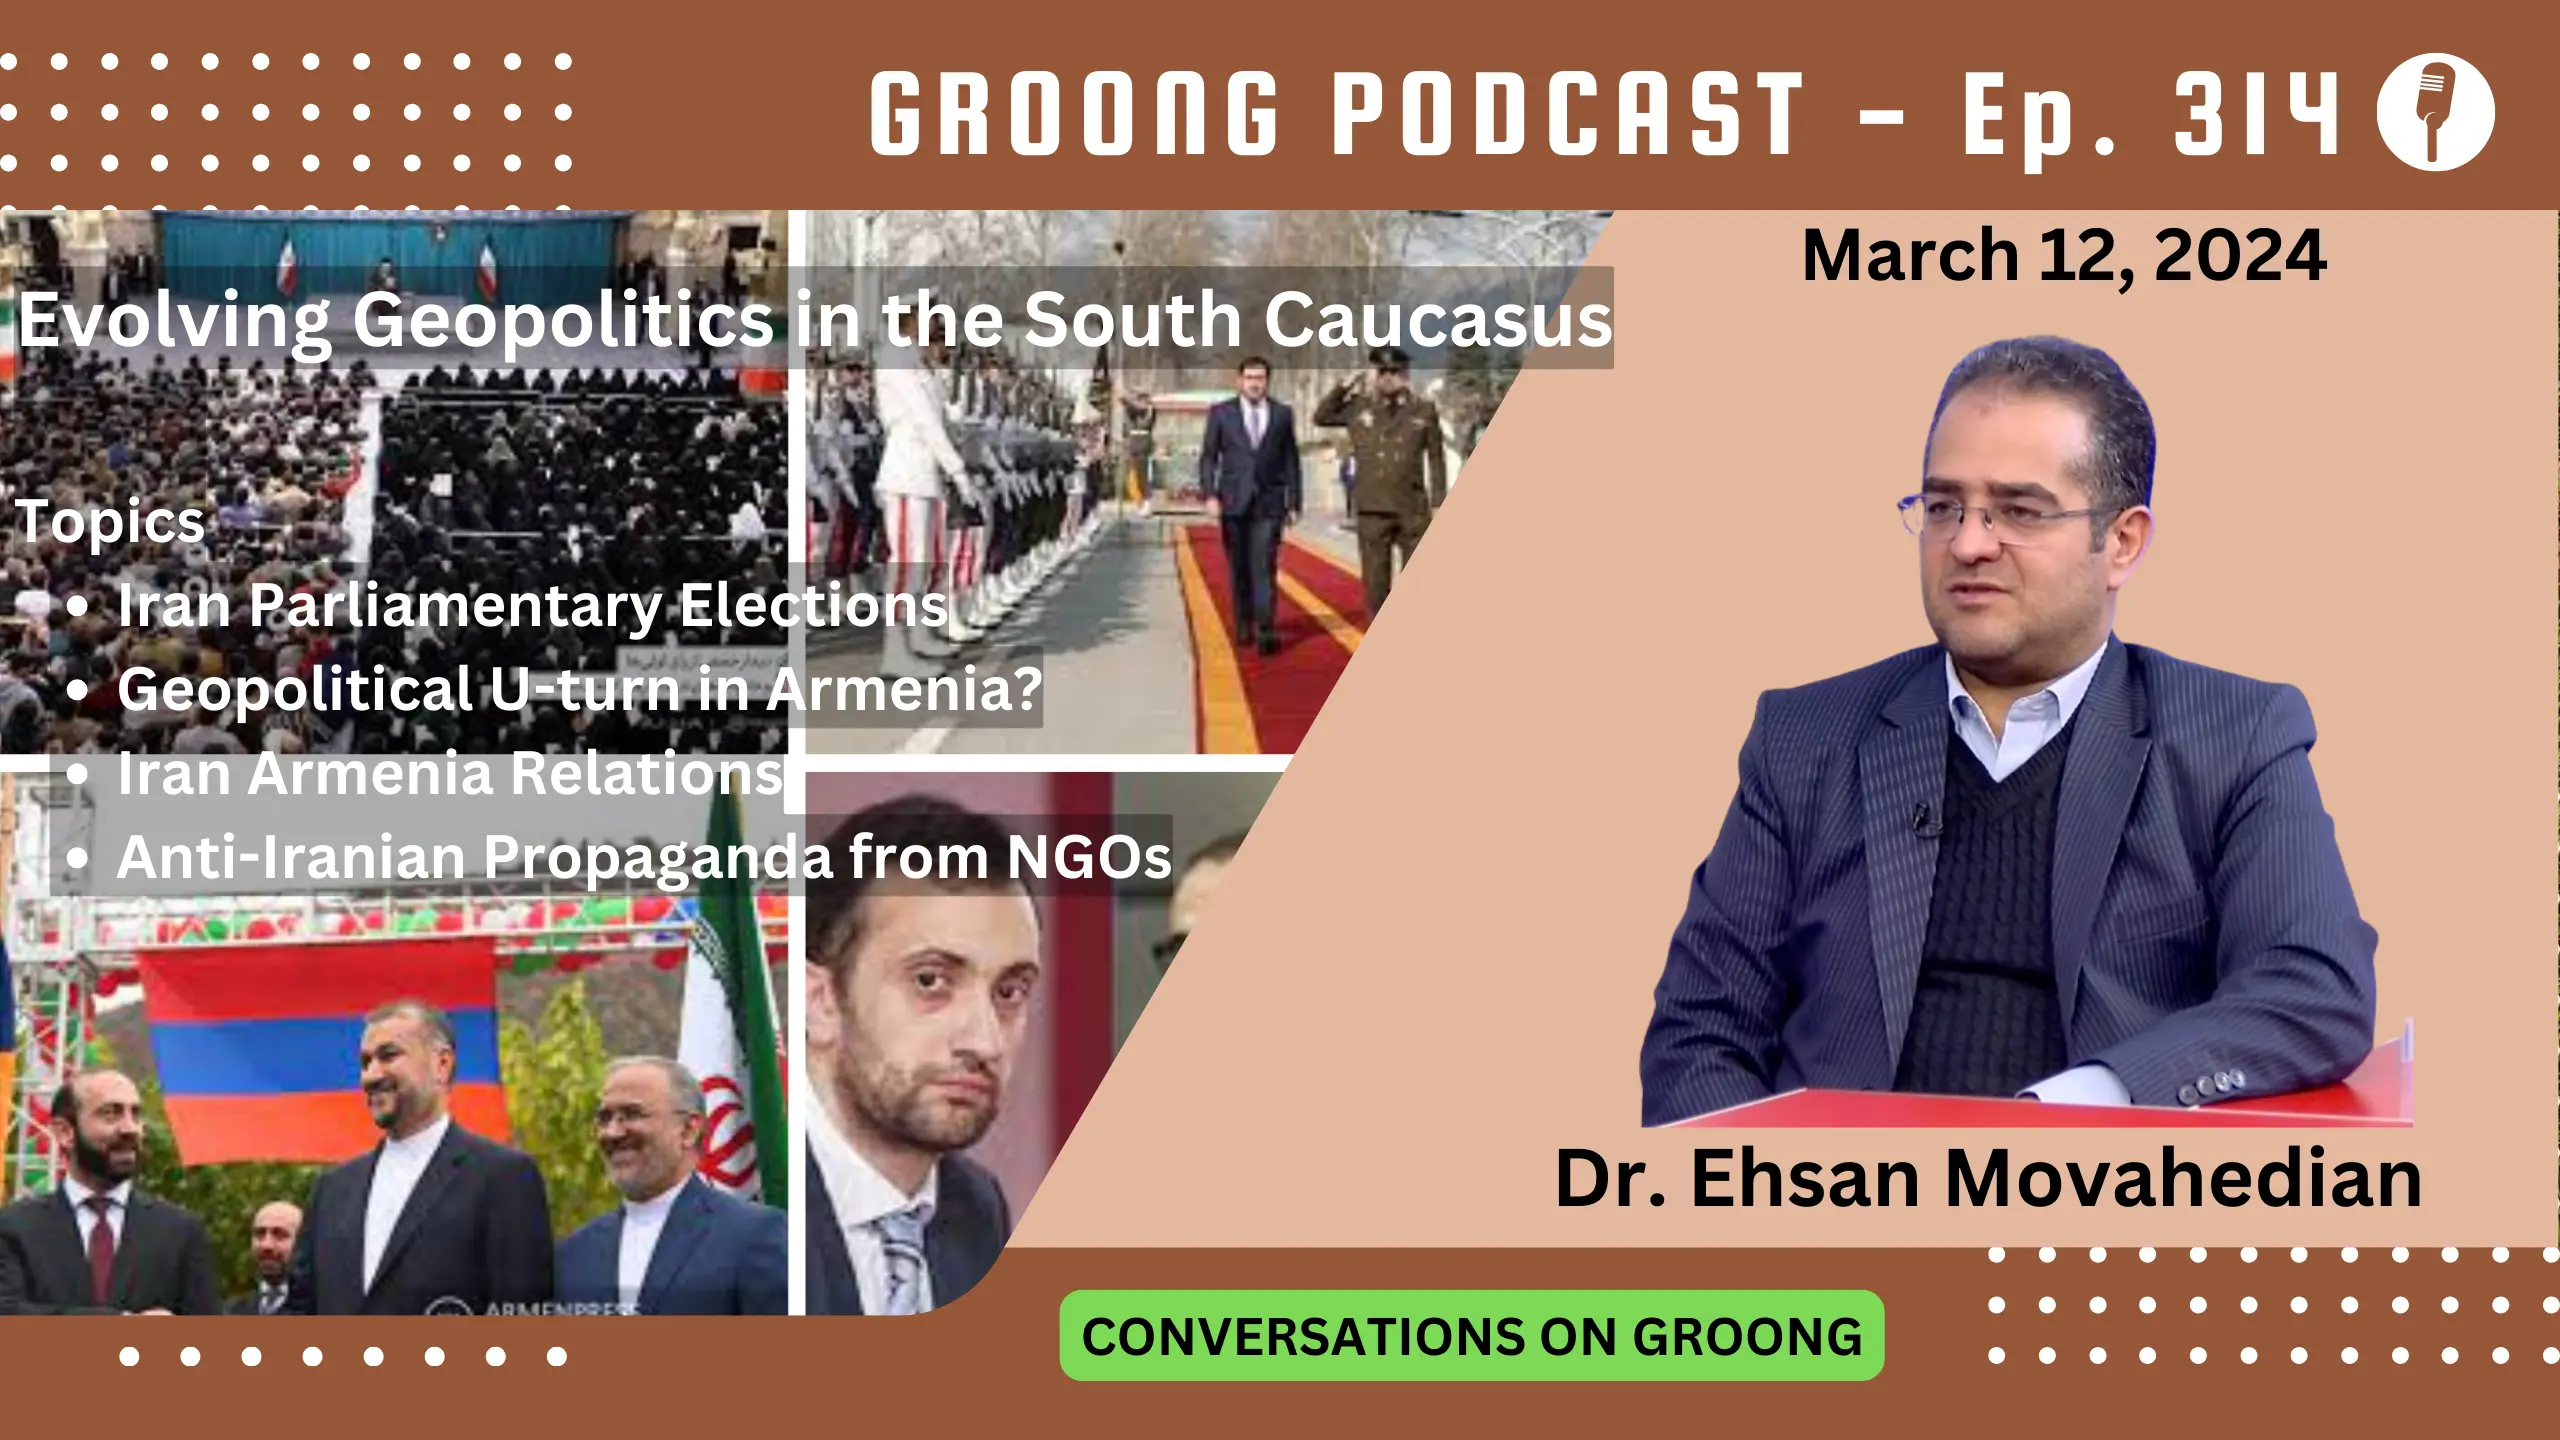
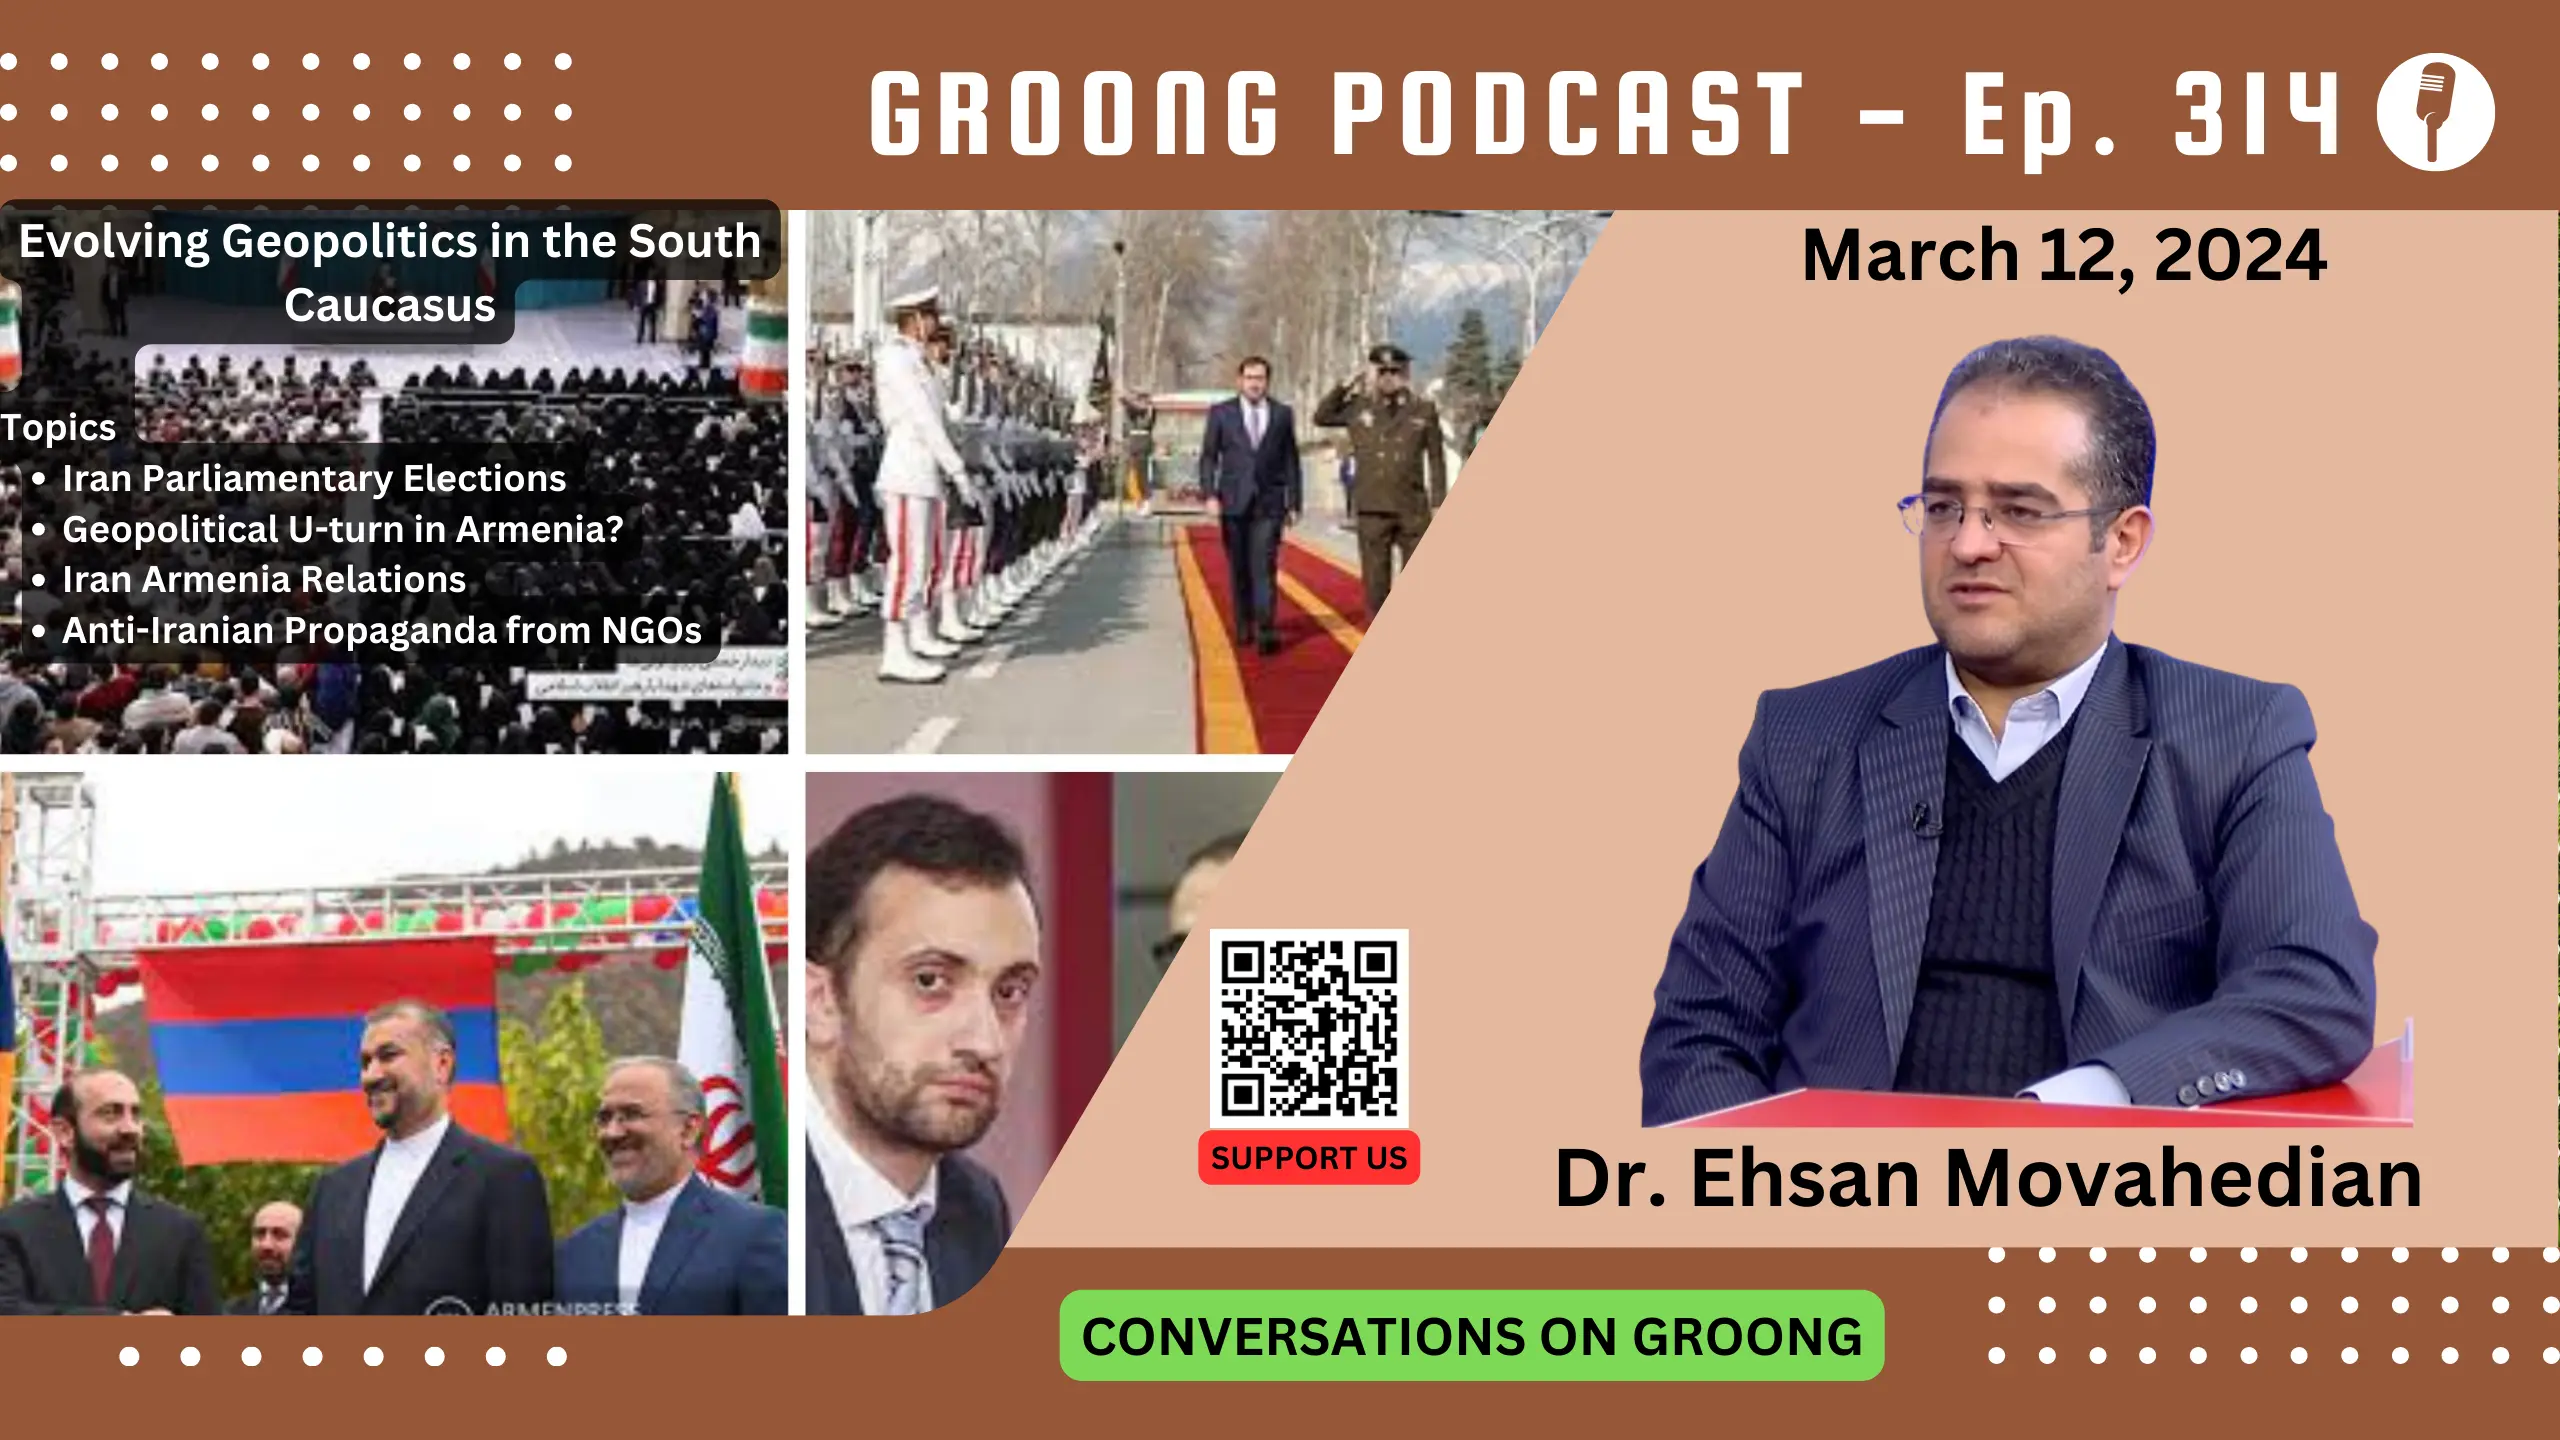
Go live EP 314 with Ehsan Movahedian

Changed region(s): [[0.0, 0.125, 0.6562, 0.625], [0.4688, 0.625, 0.5625, 0.8438]]

diff --git a/content/episode/314-ehsan-movahedian-iran-armenia-relations-security-architecture-u-turn-ngo-propaganda.md b/content/episode/314-ehsan-movahedian-iran-armenia-relations-security-architecture-u-turn-ngo-propaganda.md
@@ -1,11 +1,11 @@
 +++
 Date = 2024-03-13T01:00:00+04:00
-upcoming = true
+upcoming = false
 
-podcast_file = ""
-podcast_bytes = ""
-podcast_duration = ""
-youtube = ""
+podcast_file = "14681286-iran-s-view-of-the-evolving-geopolitics-in-the-south-caucasus.mp3"
+podcast_bytes = "28430873"
+podcast_duration = "2366"
+youtube = "jTOQZEaaxOY"
 
 episode_image = "img/episode/314/thumbnail-314.webp"
 episode_banner = "img/episode/314/banner-314.webp"
@@ -46,7 +46,83 @@ Episode 314 | Recorded: March 11, 2024
 
 +++
 
+# Evolving Geopolitics in the South Caucasus
 
+## Iran Parliamentary Elections
+
+On March 1, 2024 Iran held parliamentary elections. The turnout of these elections was 41% which, based on our understanding, indicates that many of the seats in the Majles will go to a 2nd round of voting scheduled in May. Additionally, we understand that many seats were won by conservative candidates.
+
+**Questions:**
+* What should regional, and also global, actors expect from the outcome of these elections?
+* Is it possible that the leader of Iran might change?
+* How likely are foreign policy changes based on these elections?
+
+
+## Geopolitical U-Turn in Armenia?
+
+When the 2018 regime change happened in Armenia, there were many speculations about the future geopolitical direction of the new government, specifically that Armenia was going to make a u-turn to the west.. After the 2020 war and especially after the ethnic cleansing of Artsakh in September 2023, it seems Armenia is making steadfast and accelerated steps in a direction away from its security cooperation with the CSTO and Russia, in what Pashinyan’s government calls “security diversification,” but which in reality clearly looks like a divorce.
+
+It is important to highlight that a recent MPG poll found that over 58% of Armenians do not see these moves as corresponding to Armenian security interests, and 37% agree with the government.
+
+All this is being done in the context of constant and increasingly open and aggressive threats from Azerbaijan about attacking Armenia and forcing a corridor through Syunik. In reality, they have their sights on all of Armenia through Aliyev’s “Western Azerbaijan” propaganda.
+
+Meanwhile, Russian and Iranian officials define their relations as very close. More recently the relations have been elevated to a strategic alliance since the Ukraine war, when Russia began to rely more heavily on Iran for military cooperation.
+
+**Questions**:
+* How is Iran viewing Armenia’s potential change of security architecture?
+* Given Armenia’s geographic neighborhood, is a change of security architecture a realistic goal?
+* Georgia has recently been granted candidacy for EU membership. Is Georgia’s security orientation also a concern for Iran?
+
+
+## Iran-Armenia Relations
+
+In the context of Armenia’s antagonism with Russia, the role of Iran in Armenia’s future security architecture seems at once both crucial, as well as in question. Armenian officials praise Iran’s role in the “diversification” of Armenia’s foreign policy, but at the same time it seems that the Pashinyan regime is obviously holding back from deeper cooperation. For instance, it has been reported that Armenia has refused Iranian offers to obtain military supplies.
+
+Over the past few months, Armenian and Iranian officials have been engaged in an intense series of high level meetings. In February, Deputy Prime Minister, [Mher Grigoryan was in Iran](https://iran.mfa.am/en/news/2024/02/14/armenian-deputy-prime-minister-mher-grigoryan-visited-the-islamic-republic-of-iran/12580). Last week, Armenia’s Defense Minister, Suren Papikyan, [visited](https://www.azatutyun.am/a/32850808.html) Iran. Deputy Foreign Minister [Vahan Kostanyan was also in Tehran](https://www.mfa.am/en/press-releases/2024/03/09/political_consultations_Arm_Iran/12543) just over this past weekend. Iranian officials have also visited Armenia recently, including Foreign Minister Hossein Amirabdollahian who [was in Yerevan just this last December 2023](https://en.mfa.ir/portal/newsview/737196/Iran-FM-in-Yerevan-for-talks-with-Armenian-officials).
+
+Publicly, the only consistent message that is being communicated is that Iran is against the influence of foreign forces in the security of the region.
+
+**Questions**:
+* Of course, it's great to meet and collaborate on accelerating mutual foreign policy goals. However, is this the reason that Armenian and Iranian officials are meeting so frequently or are these meetings trying to reconcile differences and potential conflicts?
+* Why is Iran concerned about an observer mission by the EU in Armenia?
+    * Iran has also [proposed](https://armenpress.am/eng/news/1121155.html) stationing monitors (to replace the EU monitors) on Armenia’s borders.
+* What is a red line and what is tolerable by Iran?
+    * French radars deployed in Armenia?
+    * Indian military supplies to Armenia?
+    * Azerbaijani excursion into Armenia? Invasion of Armenia?
+        * Note that Azerbaijan is already 200 sq.km. inside Armenia, at what point does it trigger Iran?
+* While deputy FM Kostanyan was in Tehran, both sides [called](https://www.tasnimnews.com/en/news/2024/03/10/3052595/iran-armenia-ties-benefit-regional-security-amirabdollahian) for expanded and closer relations. Are these feelgood statements, or is there a concrete plan of action, and agenda behind such statements?
+
+
+### Economic Relations
+
+On January 2 of this year, Iran [signed](https://www.intellinews.com/iran-eeu-sign-historic-free-trade-agreement-306057/#:~:text=The%20Iran%2DEurasian%20Economic%20Union,party%2C%20exempt%20from%20tariff%20elimination) a historic free trade agreement with the EAEU, with which its sole adjacent border is through Armenia.
+
+**Question**:
+* What is your perspective on the decline in Armenian-Russian relations, amidst blooming relations between Iran, Russia and the rest of the EAEU countries?
+
+As far as economic relations are concerned, Iran and Russia have made strides in their North-South connectivity through Azerbaijan. Iran has said that multiple routes for the North-South economic corridor would be ideal. There have been some advances in connecting to the Black Sea through Armenia and Georgia.
+
+**Questions**:
+* Do you see issues in the progress or realization of the INSTC through Armenia?
+* Has Iran’s consulate in Kapan, Armenia’s south, started making a difference?
+* How do you assess the influence of Azerbaijan on Iran’s regional policies, once the North-South economy picks up through it?
+
+
+## Anti-Iranian Propaganda by NGOs
+
+Over the past 2 weeks, the **Union of Informed Citizens, **one of the most powerful and well-financed foreign-supported NGOs in Armenia, has been engaged in anti-Iranian propaganda, including social media postings as well as videos.
+
+This NGO is led by Daniel Ioannisyan, who seems to enjoy the sponsorship of the Pashinyan regime, as the Armenian government has frequently engaged Ioannisyan in various projects, the most prominent being the “rewrite” of the Armenian constitution.
+
+What was the content of these videos? 
+* [One of the videos](https://www.youtube.com/watch?v=3L_jzePsgXs) claims that Iran is not interested in a strong Armenia.
+* Meanwhile [another one](https://www.youtube.com/watch?v=Jh4H6Djeg70) presents Iran as an ally of forces such as Hezbollah.
+
+**Questions**:
+* What are your thoughts about the timing and content of this anti-Iranian material?
+* Is a weak Armenia in Iran’s interest?
+* How do such things affect Armenian-Iranian relations? Or do they?
 
 
 # Wrap-up
